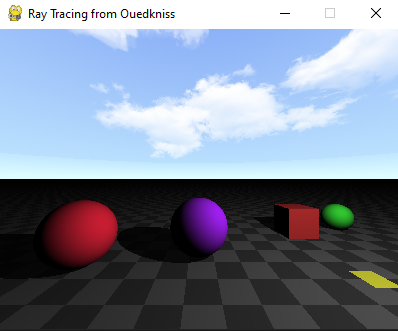
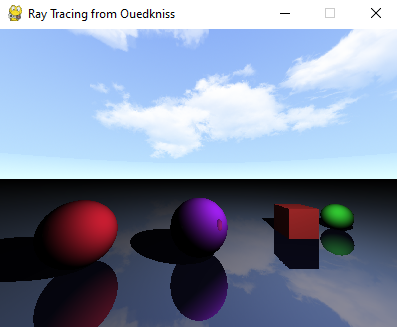
added reflections

diff --git a/main.py b/main.py
@@ -9,6 +9,8 @@ from ray import Ray
 def main():
     pygame.init()
 
+    reflection_depth = 1
+
     skybox_image = "skybox.png"
     skybox = Skybox(skybox_image)
 
@@ -24,7 +26,7 @@ def main():
 
     camera = Camera(camera_position, screen_width, screen_height, fov)
 
-    light = Light((0, 6, 3), (255, 255, 255), 1)
+    light = Light((-2, 6, 2), (255, 255, 255), 1)
     #might add multi-light support later? probably?
 
     cube_vertices, cube_faces, cube_normals = read_object("objects/cube.obj")
@@ -32,14 +34,15 @@ def main():
     objects = [
         #(x, y, z), radius, color
         #Sphere((0, 1, -5), 1, (200, 0, 0)),
-        Sphere((-7, 0.5, -2), 1.5, (160, 32, 240)),
-        Sphere((-12.5, 0.5, -1), 1.5, (200, 30, 50)),
-        Sphere((4, 0, -6), 1, (50, 200, 50)),
+        Sphere((-7, 0.5, -2), 1.5, (160, 32, 240), 0.5),
+        Sphere((-12.5, 0.5, -1), 1.5, (200, 30, 50), 0.5),
+        Sphere((4, 0, -6), 1, (50, 200, 50), 0.5),
         #Triangle((-1, 0, -3), (3, 0, -7), (-1, 4, -5), (200, 25, 25)),
         #Triangle((-4, 0, -3), (-1, 4, -5), (-1, 0, -3), (25, 25, 200)),
 
         #y, color
-        Plane(-1, ((50, 50, 50), (80, 80, 80)))
+        #Plane(-1, ((20, 20, 50), (40, 40, 100)), 0.5),
+        Plane(-1, (20, 20, 50), 0.5),
     ]
 
     for index in range(len(cube_faces)):
@@ -48,10 +51,6 @@ def main():
         point3 = cube_vertices[cube_faces[index][2]-1]
         normal = cube_normals[index]
         objects.append(Triangle(point1, point2, point3, (200, 50, 50), normal))
-
-    #cyan background, will probably replace with a floor/skybox or something later
-    background_color = (135, 206, 235)
-    screen.fill(background_color)
 
     for y in range(screen_height):
         for x in range(screen_width):
@@ -88,7 +87,46 @@ def main():
                 if obstructed:
                     closest_object.render(screen, x, y, saved_intersection_point, light, True)
                 else:
-                    closest_object.render(screen, x, y, saved_intersection_point, light)
+                    #if the ray successfully makes it to the light source, we check for reflections
+                    if closest_object.reflection > 0:
+                        if reflection_depth > 0:
+                            #if the object has a reflection, we find the reflection ray and call the function
+                            reflection_direction = ray.direction - 2 * np.dot(ray.direction, closest_object.get_normal(saved_intersection_point)) * closest_object.get_normal(saved_intersection_point)
+                            reflection_ray = Ray(saved_intersection_point + reflection_direction * 1e-4, reflection_direction)
+                            closest_reflection_t = np.inf
+                            closest_reflection_object = None
+                            saved_reflection_point = None
+
+                            for reflection_object in objects:
+                                reflection_intersection_point, reflection_t = reflection_object.intersect(reflection_ray)
+                                if reflection_intersection_point is not None:
+                                    if reflection_t < closest_reflection_t:
+                                        closest_reflection_t = reflection_t
+                                        closest_reflection_object = reflection_object
+                                        saved_reflection_point = reflection_intersection_point
+
+                            if closest_reflection_object:
+                                
+                                reflection_normal = closest_reflection_object.get_normal(saved_reflection_point)
+                                reflection_light_direction = light.calculate_direction(saved_reflection_point)
+                                reflection_intensity = max(0, np.dot(reflection_normal, reflection_light_direction)) * light.strength
+                                closest_reflection_object_color = np.array(closest_reflection_object.color)
+                                final_color = closest_reflection_object_color * reflection_intensity * light.color
+                                final_color = np.clip(final_color, 0, 255)              
+
+                                mixed_color = np.array(closest_object.color) * (1 - closest_object.reflection) + np.array(final_color) * closest_reflection_object.reflection
+                                mixed_color = np.clip(mixed_color, 0, 255)
+                                closest_object.render(screen, x, y, saved_intersection_point, light, False, mixed_color)
+                            else:
+                                skybox_pixel = skybox.get_skybox_pixel(reflection_direction)[:3]
+                                mixed_color = np.array(closest_object.color) * (1 - closest_object.reflection) + np.array(skybox_pixel) * closest_object.reflection
+                                mixed_color = np.clip(mixed_color, 0, 255)
+
+                                closest_object.render(screen, x, y, saved_intersection_point, light, False, mixed_color)
+                        else:
+                            closest_object.render(screen, x, y, saved_intersection_point, light, False)
+                    else:
+                        closest_object.render(screen, x, y, saved_intersection_point, light)
                 pygame.display.update((x, y, 1, 1))
             else:
                 #if there is no intersection, we find the corresponding pixel in the skybox

diff --git a/objectHandler.py b/objectHandler.py
@@ -26,12 +26,13 @@ def read_object(filename):
 
 
 class Triangle():
-    def __init__(self, a, b, c, color, normal):
+    def __init__(self, a, b, c, color, normal, reflection=0):
         self.v0 = np.array(a)
         self.v1 = np.array(b)
         self.v2 = np.array(c)
         self.color = color
         self.normal = normal
+        self.reflection = reflection
 
     def intersect(self, ray):
         #moller trumbore algorithm
@@ -93,7 +94,7 @@ class Triangle():
     def get_normal(self, intersection_point):
         return np.array(self.normal)
     
-    def render(self, screen, x, y, saved_intersection_point, light, inShadow=False):
+    def render(self, screen, x, y, saved_intersection_point, light, inShadow=False, new_color=None):
         #refer to the plane rendering function everything is commented there.
         normal = self.get_normal(saved_intersection_point)
         light_direction = light.calculate_direction(saved_intersection_point)
@@ -103,13 +104,17 @@ class Triangle():
         final_color = converted_color * intensity * light.color
         if inShadow:
             final_color *= shadowMultiplier
+
+        if new_color is not None:
+            final_color = new_color
         final_color = np.clip(final_color, 0, 255)
         screen.set_at((x, y), final_color)
 
 class Plane():
-    def __init__(self, yLevel, color):
+    def __init__(self, yLevel, color, reflection=0):
         self.yLevel = yLevel
         self.color = color
+        self.reflection = reflection
 
     def intersect(self, ray):
         origin = np.array(ray.origin)
@@ -131,7 +136,7 @@ class Plane():
 
         return (intersection, t)
     
-    def render(self, screen, x, y, saved_intersection_point, light, inShadow=False):
+    def render(self, screen, x, y, saved_intersection_point, light, inShadow=False, new_color=None):
 
         normal = self.get_normal(saved_intersection_point)
         light_direction = light.calculate_direction(saved_intersection_point)
@@ -142,8 +147,18 @@ class Plane():
 
         #If the plane only has one color, we use it.
         #Otherwise we use a checkerboard pattern
-        if len(self.color) == 1:
-            screen.set_at((x, y), self.color)
+        if len(self.color) == 3:
+
+            if new_color is not None:
+                converted_color = new_color
+            else:
+                converted_color = np.array(self.color)
+
+            final_color = converted_color * intensity * light.color
+            if inShadow:
+                final_color *= shadowMultiplier
+            final_color = np.clip(final_color, 0, 255)
+            screen.set_at((x, y), final_color)
         else:
             tile_size = 1.25
             if saved_intersection_point[0] < 0.5 and saved_intersection_point[0] > -0.5 and saved_intersection_point[2] < 0.5 and saved_intersection_point[2] > -0.5:
@@ -176,11 +191,11 @@ class Plane():
         return np.array([0, 1, 0])
 
 class Sphere():
-    def __init__(self, center, radius, color):
+    def __init__(self, center, radius, color, reflection=0):
         self.center = center
         self.radius = radius
         self.color = color
-
+        self.reflection = reflection
     def intersect(self, ray):
 
         #Variables:
@@ -228,16 +243,22 @@ class Sphere():
             intersection = origin + direction * t
             return (intersection, t)
         
-    def render(self, screen, x, y, saved_intersection_point, light, inShadow=False):
+    def render(self, screen, x, y, saved_intersection_point, light, inShadow=False, new_color=None):
         #refer to the plane rendering function everything is commented there.
         normal = self.get_normal(saved_intersection_point)
         light_direction = light.calculate_direction(saved_intersection_point)
         intensity = max(0, np.dot(normal, light_direction)) * light.strength
 
-        converted_color = np.array(self.color)
+        if new_color is not None:
+            converted_color = new_color
+        else:
+            converted_color = np.array(self.color)
+
         final_color = converted_color * intensity * light.color
         if inShadow:
             final_color *= shadowMultiplier
+
+
         final_color = np.clip(final_color, 0, 255)
         screen.set_at((x, y), final_color)
 
